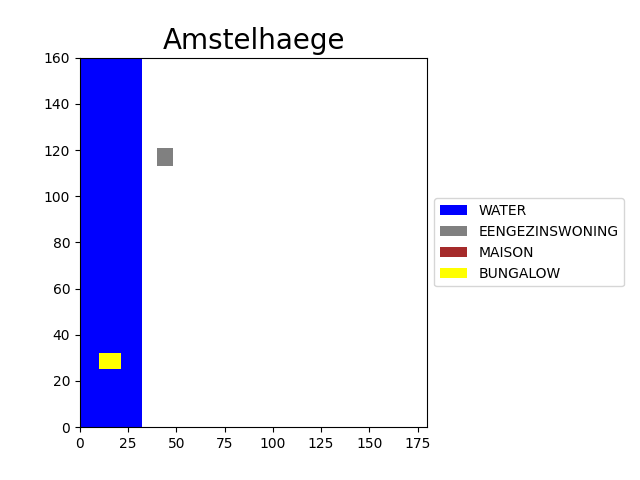
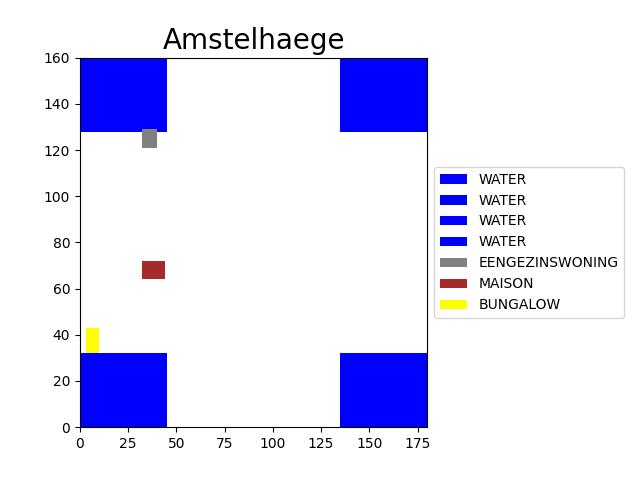
visualisations fix en class map

diff --git a/main.py b/main.py
@@ -1,23 +1,24 @@
-from  code.classes.models import House, water
+from  code.classes.models import House, water, Map
 import csv
 from code.visualisation.visualize import visualisation
 
 if __name__ == "__main__":
 
-    all_waters = water.load_water('docs/wijk_1.csv')
+    test_kaart = Map('docs/wijk_2.csv')
     row_list = []
     amount_of_houses = 20
 
 
 
-    for i in all_waters:
-        all_waters[i].corners()
-        row_list.append([f"{all_waters[i].type}_{all_waters[i].id}", all_waters[i].bottom_left, all_waters[i].bottom_right, all_waters[i].top_right, all_waters[i].top_left ,all_waters[i].type.upper()])
+    for i in test_kaart.all_waters:
+        test_kaart.all_waters[i].corners()
+        water = test_kaart.all_waters[i]
+        row_list.append([f"{water.type}_{water.id}", water.bottom_left, water.bottom_right, water.top_right, water.top_left ,water.type.upper()])
 
-    ## Creating 3 houses
-    row_list.append(["eengezinswoning_1", "40,121", "32,121", "32,129", "40,129", "EENGEZINSWONING"])
-    row_list.append(["maison_12", "32,74", "32,64", "44,64", "44,74", "MAISON"])
-    row_list.append(["bungalow_1", "10,32", "3,32", "3,43", "10,43", "BUNGALOW"])
+    ## Creating 3 houses "40,121", "32,121", "32,129", "40,129"
+    row_list.append(["eengezinswoning_1", "32,121", "40,121", "40,129", "32,129", "EENGEZINSWONING"])
+    row_list.append(["maison_12", "32,64", "44,64", "44,74", "32,72", "MAISON"]) 
+    row_list.append(["bungalow_1", "3,32", "10,32", "10,43", "3,43", "BUNGALOW"])
 
     with open('output.csv', 'w', newline='') as file:
         writer = csv.writer(file)

diff --git a/code/visualisation/visualize.py b/code/visualisation/visualize.py
@@ -17,9 +17,9 @@ def visualisation(output):
 
     for row in datapoints[1:len(datapoints)-1]:
         bottom_left = row[1].split(',')
-        top_left = row[2].split(',')
+        bottom_right = row[2].split(',')
         top_right = row[3].split(',')
-        bottom_right = row[4].split(',')
+        top_left = row[4].split(',')
         type_house = row[5].strip()
         house_color = ''
         if type_house == 'WATER':
@@ -30,8 +30,8 @@ def visualisation(output):
             house_color = 'yellow'
         elif type_house == 'MAISON':
             house_color = 'brown'
-        ax.add_patch(Rectangle((int(bottom_left[0]), int(bottom_left[1])), int(bottom_right[1]) - int(bottom_left[1]),
-                int(top_left[0]) - int(bottom_left[0]), facecolor = house_color, label = type_house))
+        ax.add_patch(Rectangle((int(bottom_left[0]), int(bottom_left[1])), int(bottom_right[0]) - int(bottom_left[0]),
+                int(top_left[1]) - int(bottom_left[1]), facecolor = house_color, label = type_house))
                 
     box = ax.get_position()
     ax.set_position([box.x0, box.y0, box.width * 0.7, box.height])

diff --git a/code/classes/models.py b/code/classes/models.py
@@ -29,17 +29,6 @@ class water():
         self.top_left = 0
         self.top_right = top_right
 
-    def load_water(source_file):
-            waters = {}
-            with open(source_file, 'r') as in_file:
-                reader = csv.DictReader(in_file)
-                line = 0
-                for row in reader:
-                    waters[line] = water("water", line+1, row['bottom_left_xy'], row['top_right_xy'])
-                    line = line + 1
-
-            return waters
-
     def corners(self):
         x = self.bottom_left.split(",")
         #0,0
@@ -50,3 +39,18 @@ class water():
         return 1
 
 
+class Map():
+    def __init__(self, source_file):
+        self.all_houses = {}
+        self.all_waters = self.load_water(source_file)
+
+    def load_water(self, source_file):
+        waters = {}
+        with open(source_file, 'r') as in_file:
+            reader = csv.DictReader(in_file)
+            line = 0
+            for row in reader:
+                waters[line] = water("water", line+1, row['bottom_left_xy'], row['top_right_xy'])
+                line = line + 1
+
+        return waters
